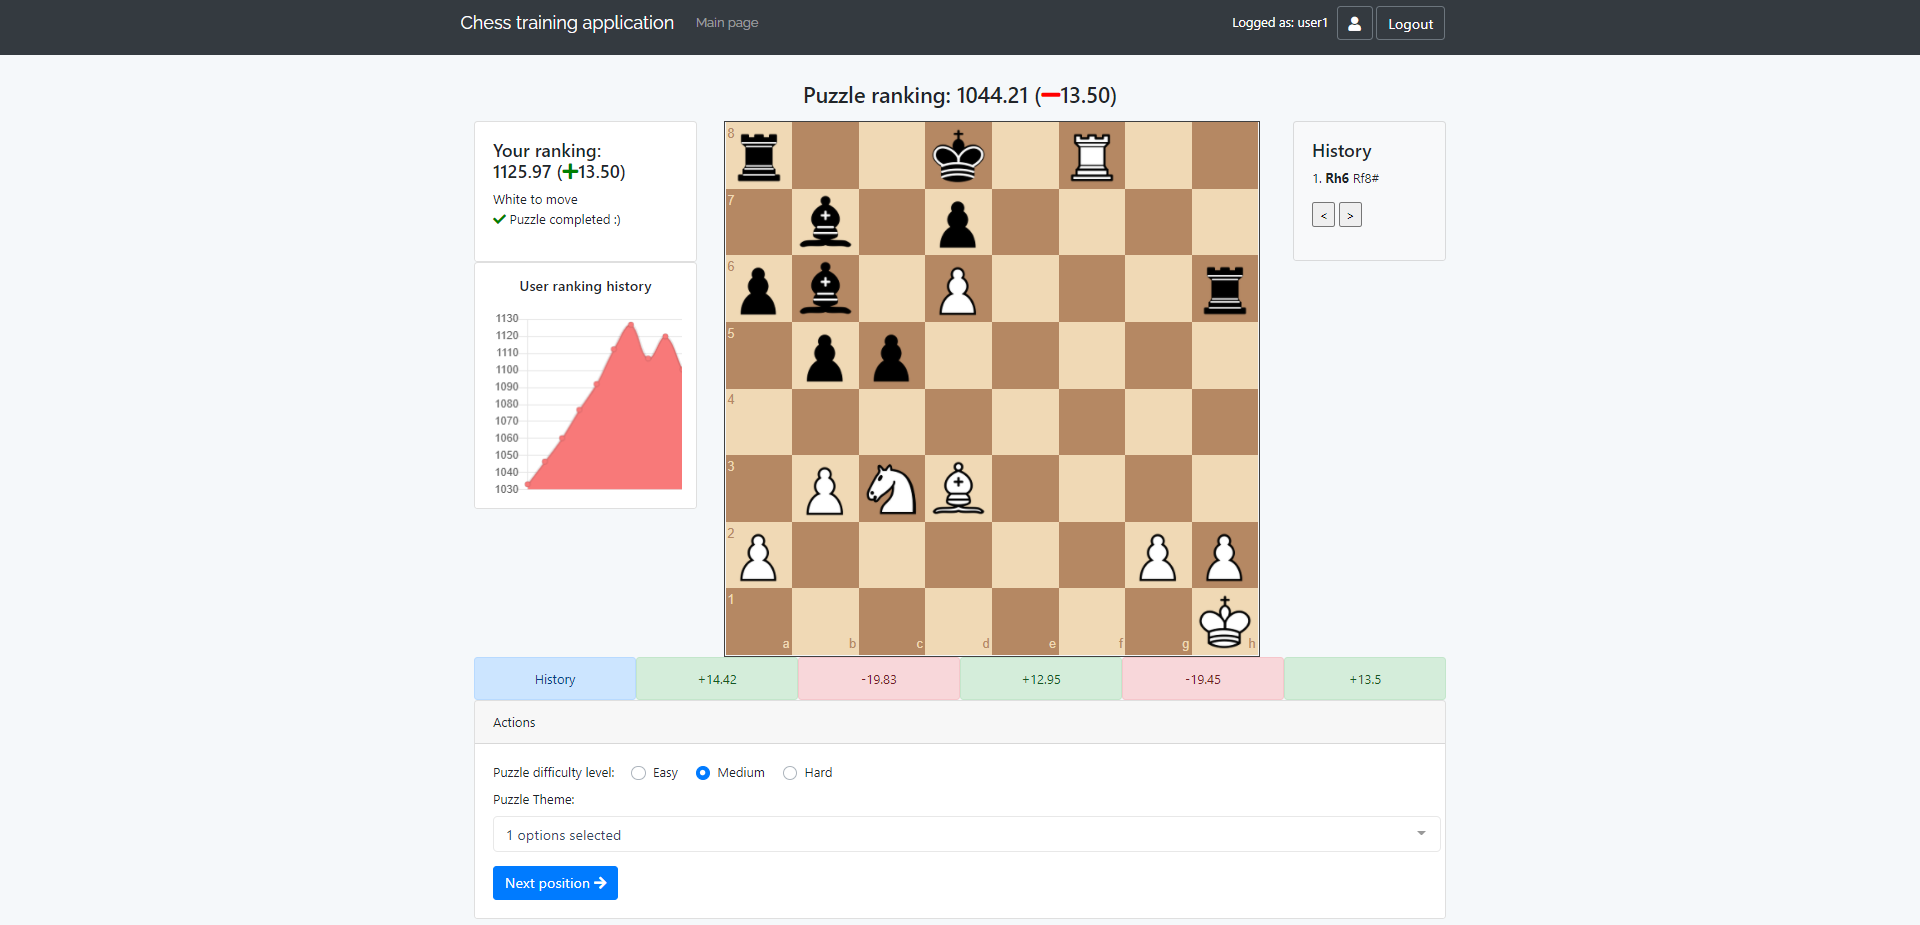
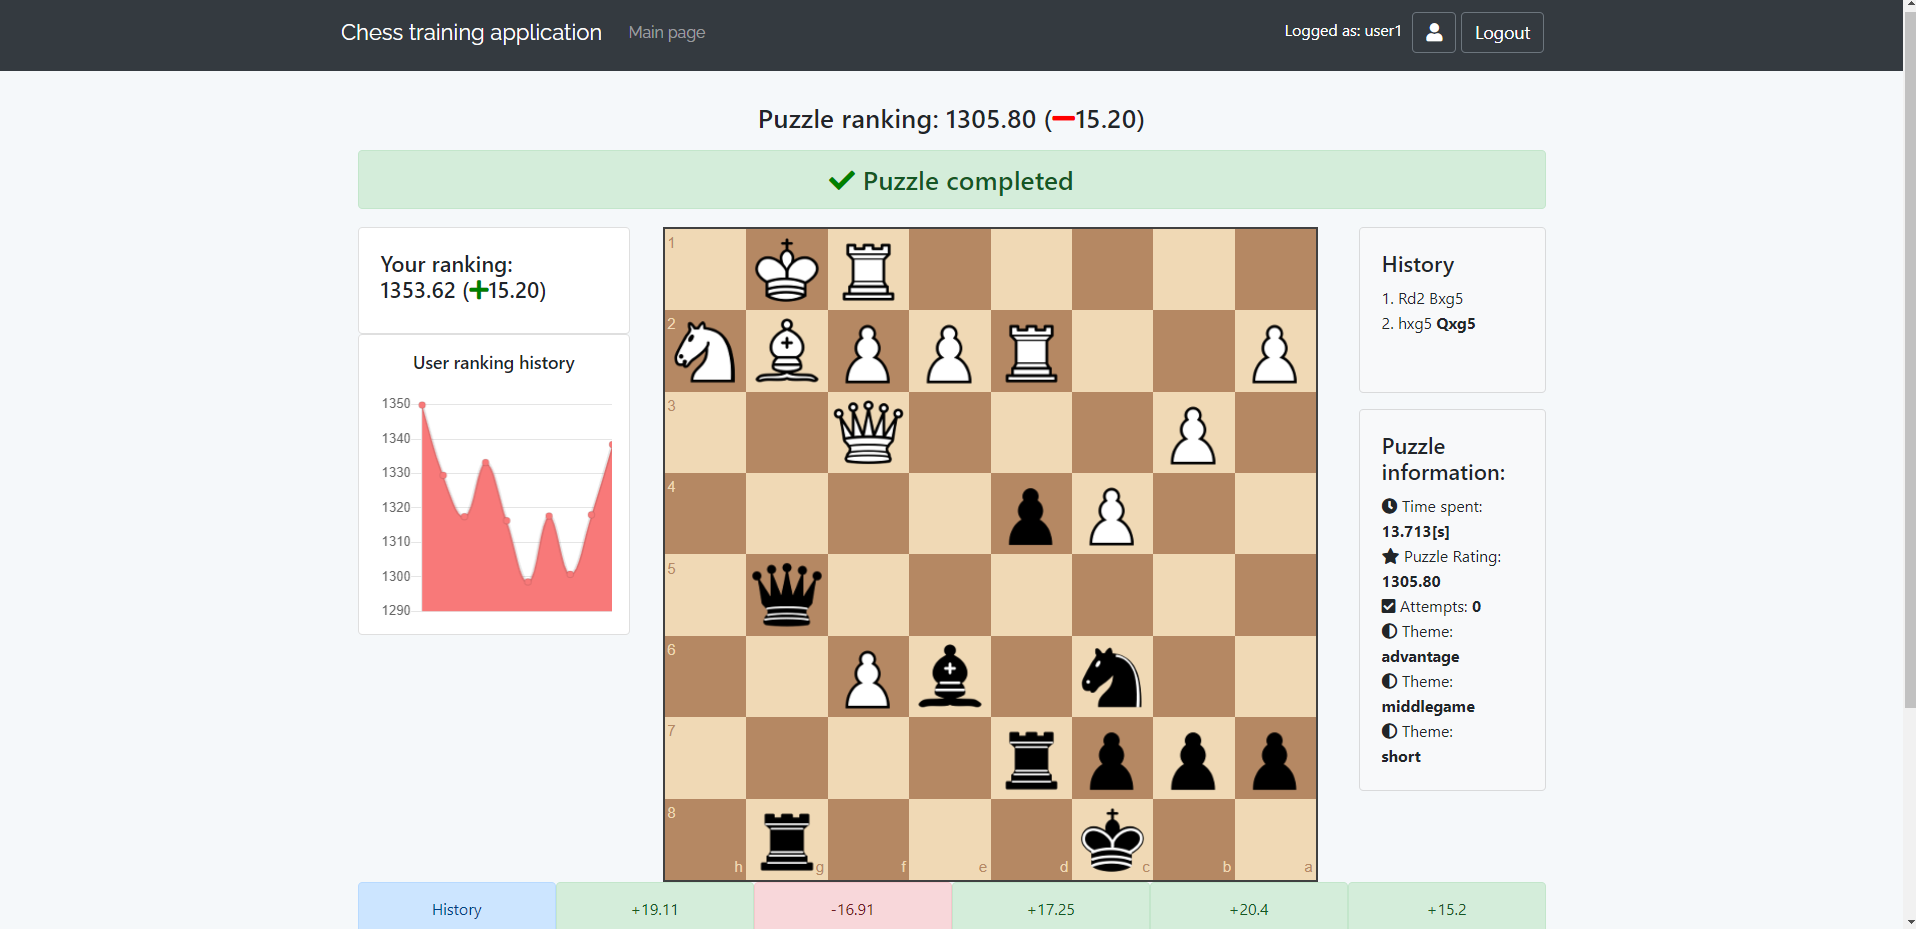
- added new panel on the right with puzzle information - made everything prettier

diff --git a/assets/js/store/store.js b/assets/js/store/store.js
@@ -36,7 +36,8 @@ const store = new Vuex.Store({
         puzzleTimeStop: '',
         ratingsDifference: [],
         puzzleResult: '',
-        selectedThemes: {}
+        selectedThemes: {},
+        puzzleThemes: []
     },
     getters: {
         game: state => state.game,
@@ -66,6 +67,7 @@ const store = new Vuex.Store({
         ratingsDifference: state => state.ratingsDifference,
         puzzleDifficulty: state => state.puzzleDifficulty,
         selectedThemes: state => state.selectedThemes,
+        puzzleThemes: state => state.puzzleThemes,
         getPuzzleElapsedTime: state => {
             var timeDiff = state.puzzleTimeStop - state.puzzleTimeStart; //in ms
             // strip the ms
@@ -157,11 +159,17 @@ const store = new Vuex.Store({
         changeCurrentMove(state, currentMove) {
             state.currentMove = currentMove;
         },
+        incrementCurrentMove(state) {
+          state.currentMove++;
+        },
         changePuzzleDifficulty (state, puzzleDifficulty) {
             state.puzzleDifficulty = puzzleDifficulty;
         },
         changeSelectedThemes(state, selectedThemes) {
             state.selectedThemes = selectedThemes;
+        },
+        changePuzzleThemes(state, themes) {
+            state.puzzleThemes = themes;
         }
     },
     actions: {
@@ -185,6 +193,7 @@ const store = new Vuex.Store({
             state.commit('changePuzzleId', payload.puzzleId);
             state.commit('changePuzzleInformationTotalTries', payload.puzzleInformationTotalTries);
             state.commit('changePuzzleSuccessRate', payload.puzzleSuccessRate);
+            state.commit('changePuzzleThemes', payload.puzzleThemes);
         },
         setPlayerRatingInformation(state, payload) {
             state.commit('changePlayerRankingDifferenceValue', payload.playerRankingDifferenceValue)
@@ -214,7 +223,9 @@ const store = new Vuex.Store({
             state.commit('changeRatingsDifference', ratingDifference);
         },
         setPuzzleCompleted(state) {
-            var html = '<i class="fas fa-check" style="color:green"></i> Puzzle completed :)';
+            let html = `<div class="alert alert-success" role="alert">
+                            <i class="fas fa-check" style="color:green"></i> Puzzle completed
+                        </div>`;
 
             state.commit('changeProgressInformationValue', html);
         },
@@ -261,7 +272,7 @@ const store = new Vuex.Store({
                 });
 
                 state.dispatch('updateGameHistory');
-                state.currentMove++;
+                state.commit('incrementCurrentMove');
 
                 resolve();
 
@@ -276,8 +287,6 @@ const store = new Vuex.Store({
 
             const html = `
             <i class="fas fa-info-circle" style="color:green"></i> Puzzle information: 
-            <p class="puzzle-info-paragraph"> Puzzle rating: ${puzzleRating}</p>
-            <p class="puzzle-info-paragraph"> Times solved: ${puzzleTotalTimesTried}</p>
             <p class="puzzle-info-paragraph"> Success rate: ${puzzleSuccessRate}%</p>
             <p class="puzzle-info-paragraph"> Time spent: ${timeElapsed} [s]</p>
             `;
@@ -289,11 +298,15 @@ const store = new Vuex.Store({
 
             if (type)
             {
-                html = '<i class="fas fa-check" style="color:green"></i> Good move, keep on :)';
+                html = `<div class="alert alert-success" role="alert">
+                            <i class="fas fa-check" style="color:green"></i> Good move
+                        </div>`;
             }
             else
             {
-                html = '<i class="fas fa-times" style="color:red"></i> Bad move :(';
+                html = `<div class="alert alert-danger" role="alert">
+                            <i class="fas fa-times" style="color:red"></i> Bad move
+                        </div>`;
             }
 
             state.commit('changeProgressInformationValue', html);

diff --git a/assets/js/modules/functions.js b/assets/js/modules/functions.js
@@ -60,6 +60,8 @@ export function updateStatus() {
     var status = '';
     var moveIcon = '<i class="fas fa-chess-king" style="color:#ced4da; padding-right:5px;"></i>';
     var moveColor = 'White';
+    let html;
+
     store.state.cfg.orientation='white';
 
     if (store.getters.game.turn() === 'b') {
@@ -91,7 +93,26 @@ export function updateStatus() {
         }
     }
 
-    store.state.statusValue = status;
+    if (store.getters.puzzleActive)
+    {
+        if (store.getters.game.turn() === 'b') {
+            html = `<div class="alert alert-dark no-margin" role="alert">
+                            <i class="fas fa-chess-king move-turn-icon"></i> ${status}
+                        </div>`;
+        }
+        else
+        {
+            html = `<div class="alert no-margin" role="alert" style="color:white; background:#f87979">
+                           <i class="fas fa-chess-king move-turn-icon"></i> ${status}
+                        </div>`;
+        }
+    }
+    else
+    {
+        html = '';
+    }
+
+    store.state.statusValue = html;
 };
 
 export function calculateNewRankings(result) {
@@ -260,7 +281,6 @@ export function checkPlayerSolution(playerMove, solutionMove) {
     if (!store.getters.puzzleActive)
     {
         store.dispatch('stopCountingTime');
-        store.dispatch('displayPuzzleInformation');
 
         ajaxFunc.savePuzzleRatingAxios(store.getters.puzzleId, ratings.newPuzzleRanking)
             .then(ajaxFunc.saveUserRankingAxios(store.getters.userId, ratings.newPlayerRanking))

diff --git a/assets/js/components/puzzleRightSideInfoComponent.vue b/assets/js/components/puzzleRightSideInfoComponent.vue
@@ -1,0 +1,55 @@
+<template>
+    <div class="card card-body bg-light">
+        <h5>Puzzle information: </h5>
+
+        <div v-if="puzzleRanking">
+          <p class="puzzleListElement" v-if="puzzleTimeSpent > 0">
+            <i class="fa fa-clock"></i> Time spent: <b> {{puzzleTimeSpent}}[s] </b>
+          </p>
+          <p class="puzzleListElement">
+            <i class="fa fa-star"></i> Puzzle Rating: <b> {{puzzleRanking}} </b>
+          </p>
+          <p class="puzzleListElement">
+            <i class="fa fa-check-square"></i> Attempts: <b> {{ puzzleTotalTries }} </b>
+          </p>
+          <p class="puzzleListElement" v-for="item in puzzleThemes">
+              <i class="fa fa-adjust"></i> Theme: </br> <b> {{item.name}} </b>
+          </p>
+      </div>
+    </div>
+</template>
+
+<script>
+import Vue from 'vue';
+import store from "../store/store";
+
+var puzzleRightSideInfoComponent = Vue.component('puzzle-right-info-component', {
+    data: function () {
+        return {
+
+        }
+    },
+    methods: {
+
+    },
+    computed: {
+      puzzleRanking() {
+        return store.getters.puzzleRankingValue;
+      },
+      puzzleTotalTries() {
+        return store.getters.puzzleInformationTotalTries;
+      },
+      puzzleThemes() {
+        return store.getters.puzzleThemes;
+      },
+      puzzleTimeSpent() {
+        return store.getters.getPuzzleElapsedTime;
+      },
+    },
+    mounted() {
+
+    }
+});
+
+export default puzzleRightSideInfoComponent;
+</script>

diff --git a/assets/js/chessboard_script.js b/assets/js/chessboard_script.js
@@ -7,6 +7,7 @@ import playerRankingDifference from './components/playerRankingDifferenceCompone
 import puzzleRankingDifferenceComponent from './components/puzzleRankingDifferenceComponent.vue';
 import playerRankingComponent from './components/playerRankingComponent.vue';
 import PuzzleInformationComponent from './components/puzzleInformationComponent.vue';
+import puzzleRightSideInfoComponent from "./components/puzzleRightsideInfoComponent";
 import statusComponent from './components/statusComponent.vue';
 import LineChartContainerMini from './components/ChartContainerMini.vue'
 import NextPosition from './components/nextPosition.vue'
@@ -25,6 +26,7 @@ appMainComponent = new Vue({
     components: {
         'progress-information-component': progressInformationComponent,
         'puzzle-information-component': PuzzleInformationComponent,
+        'puzzle-right-info-component': puzzleRightSideInfoComponent,
         'puzzle-ranking-component': puzzleRankingComponent,
         'player-ranking-difference-component': playerRankingDifference,
         'puzzle-ranking-difference-component': puzzleRankingDifferenceComponent,

diff --git a/assets/js/components/gameHistoryComponent.vue b/assets/js/components/gameHistoryComponent.vue
@@ -7,8 +7,8 @@
         </p>
         <p>
 <!--            <input type="button" id="startPositionBtn5" value="|<" v-on:click="resetPosition"/>-->
-            <input type="button" id="prevBtn5" value="<" v-on:click="prevMove"/>
-            <input type="button" id="nextBtn5" value=">" v-on:click="nextMove"/>
+<!--            <input type="button" id="prevBtn5" value="<" v-on:click="prevMove"/>
+            <input type="button" id="nextBtn5" value=">" v-on:click="nextMove"/>-->
 <!--            <input type="button" id="endPositionBtn5" value=">|" />-->
         </p>
     </div>

diff --git a/assets/js/modules/ajaxCalls.js b/assets/js/modules/ajaxCalls.js
@@ -73,7 +73,8 @@ export function getRandomPosition() {
                 puzzleActive: true,
                 puzzleId: response.data.puzzleId,
                 puzzleInformationTotalTries: response.data.puzzleTotalTries,
-                puzzleSuccessRate: response.data.puzzleSuccessRate
+                puzzleSuccessRate: response.data.puzzleSuccessRate,
+                puzzleThemes: response.data.themes
             })
 
             store.dispatch('resetValuesInTemplateAfterChangingPosition');

diff --git a/assets/js/components/statusComponent.vue b/assets/js/components/statusComponent.vue
@@ -1,5 +1,5 @@
 <template>
-    <span id="status" v-html="statusValue"></span>
+    <span id="status" v-if="puzzleActive" v-html="statusValue"></span>
 </template>
 
 <script>
@@ -13,9 +13,12 @@ var statusComponent = Vue.component('status-component', {
         }
     },
     computed: {
-        statusValue() {
+      statusValue() {
             return store.getters.statusValue;
-        }
+      },
+      puzzleActive() {
+        return store.getters.puzzleActive;
+      },
     }
 });
 

diff --git a/assets/css/custom.css b/assets/css/custom.css
@@ -67,3 +67,13 @@
     margin-left: 15px;
     width: 100%;
 }
+.puzzleListElement {
+    margin-bottom: 0px;
+}
+.move-turn-icon {
+    font-size: 36px;
+    margin-right: 10px;
+}
+.no-margin {
+    margin-bottom: 0px;
+}

diff --git a/src/AppBundle/Controller/Api/PositionController.php b/src/AppBundle/Controller/Api/PositionController.php
@@ -3,6 +3,7 @@ namespace AppBundle\Controller\Api;
 
 use AppBundle\Entity\Position;
 use AppBundle\Service\MessageService;
+use AppBundle\Service\PositionThemeService;
 use AppBundle\Service\StatisticalService;
 use AppBundle\Service\UserService;
 use FOS\RestBundle\Controller\AbstractFOSRestController;
@@ -16,10 +17,15 @@ use Symfony\Component\HttpFoundation\Response;
 class PositionController extends AbstractFOSRestController
 {
 	private $positionService;
+    /**
+     * @var PositionThemeService
+     */
+    private $positionThemeService;
 
-    public function __construct(PositionService $positionService)
+    public function __construct(PositionService $positionService, PositionThemeService $positionThemeService)
     {
         $this->positionService = $positionService;
+        $this->positionThemeService = $positionThemeService;
     }
 
     /**
@@ -29,6 +35,7 @@ class PositionController extends AbstractFOSRestController
      */
     public function getRandomPositionAction(Request $request) : View
     {
+        $themes = [];
         $puzzleDifficulty = $request->request->get('puzzleDifficulty');
         $puzzleThemes = $request->request->get('puzzleThemes');
         $loggedUserId = $this->getUser()->getId();
@@ -37,6 +44,12 @@ class PositionController extends AbstractFOSRestController
          * @var Position
          */
     	$randPosition = $this->positionService->getRandomPosition($puzzleDifficulty, $puzzleThemes, $loggedUserId);
+
+    	if ($randPosition)
+        {
+            $idPosition = $randPosition->getIdPosition();
+            $themes = $this->positionThemeService->getThemesForPosition($idPosition);
+        }
 
     	$array = [
             'fen' => $randPosition->getFen(),
@@ -47,6 +60,7 @@ class PositionController extends AbstractFOSRestController
             'puzzleTotalTries' => $randPosition->getTotalTimesTried(),
             'puzzleSuccessRate' => $randPosition->getSuccessRate(),
             'color' => $randPosition->getStartingColor(),
+            'themes' => $themes,
             'status' => 'Ok',
             'message' => 'Success'
         ];

diff --git a/src/AppBundle/Entity/PositionTheme.php b/src/AppBundle/Entity/PositionTheme.php
@@ -5,7 +5,7 @@ use Doctrine\Common\Collections\ArrayCollection;
 use Doctrine\ORM\Mapping as ORM;
 
 /**
- * @ORM\Entity(repositoryClass="AppBundle\Repository\PositionTheme")
+ * @ORM\Entity(repositoryClass="AppBundle\Repository\PositionThemeRepository")
  * @ORM\Table(name="positions_theme")
  */
 class PositionTheme
@@ -28,15 +28,12 @@ class PositionTheme
      */
     private $name;
 
-    /**
-     * @return ArrayCollection
-     */
-    public function getProducts(): ArrayCollection
+    public function getProducts()
     {
         return $this->products;
     }
 
-    public function setProducts(?Position $position): self
+    public function setProducts(?Position $position)
     {
         $this->products = $position;
 

diff --git a/src/AppBundle/Service/PositionThemeService.php b/src/AppBundle/Service/PositionThemeService.php
@@ -1,0 +1,22 @@
+<?php
+namespace AppBundle\Service;
+
+use AppBundle\Entity\Position;
+use AppBundle\Entity\PositionTheme;
+use Doctrine\ORM\EntityManagerInterface;
+
+class PositionThemeService
+{ 
+    private $em;
+
+    public function __construct(EntityManagerInterface $em)
+    {
+        $this->em = $em;
+    }
+
+    public function getThemesForPosition($positionId)
+    {
+        return $this->em->getRepository(PositionTheme::class)->findBy(["products"=>$positionId]);
+    }
+
+}

diff --git a/src/AppBundle/Repository/PositionThemeRepository.php b/src/AppBundle/Repository/PositionThemeRepository.php
@@ -1,0 +1,9 @@
+<?php
+namespace AppBundle\Repository;
+
+use Doctrine\ORM\EntityRepository;
+
+class PositionThemeRepository extends EntityRepository
+{
+
+}
